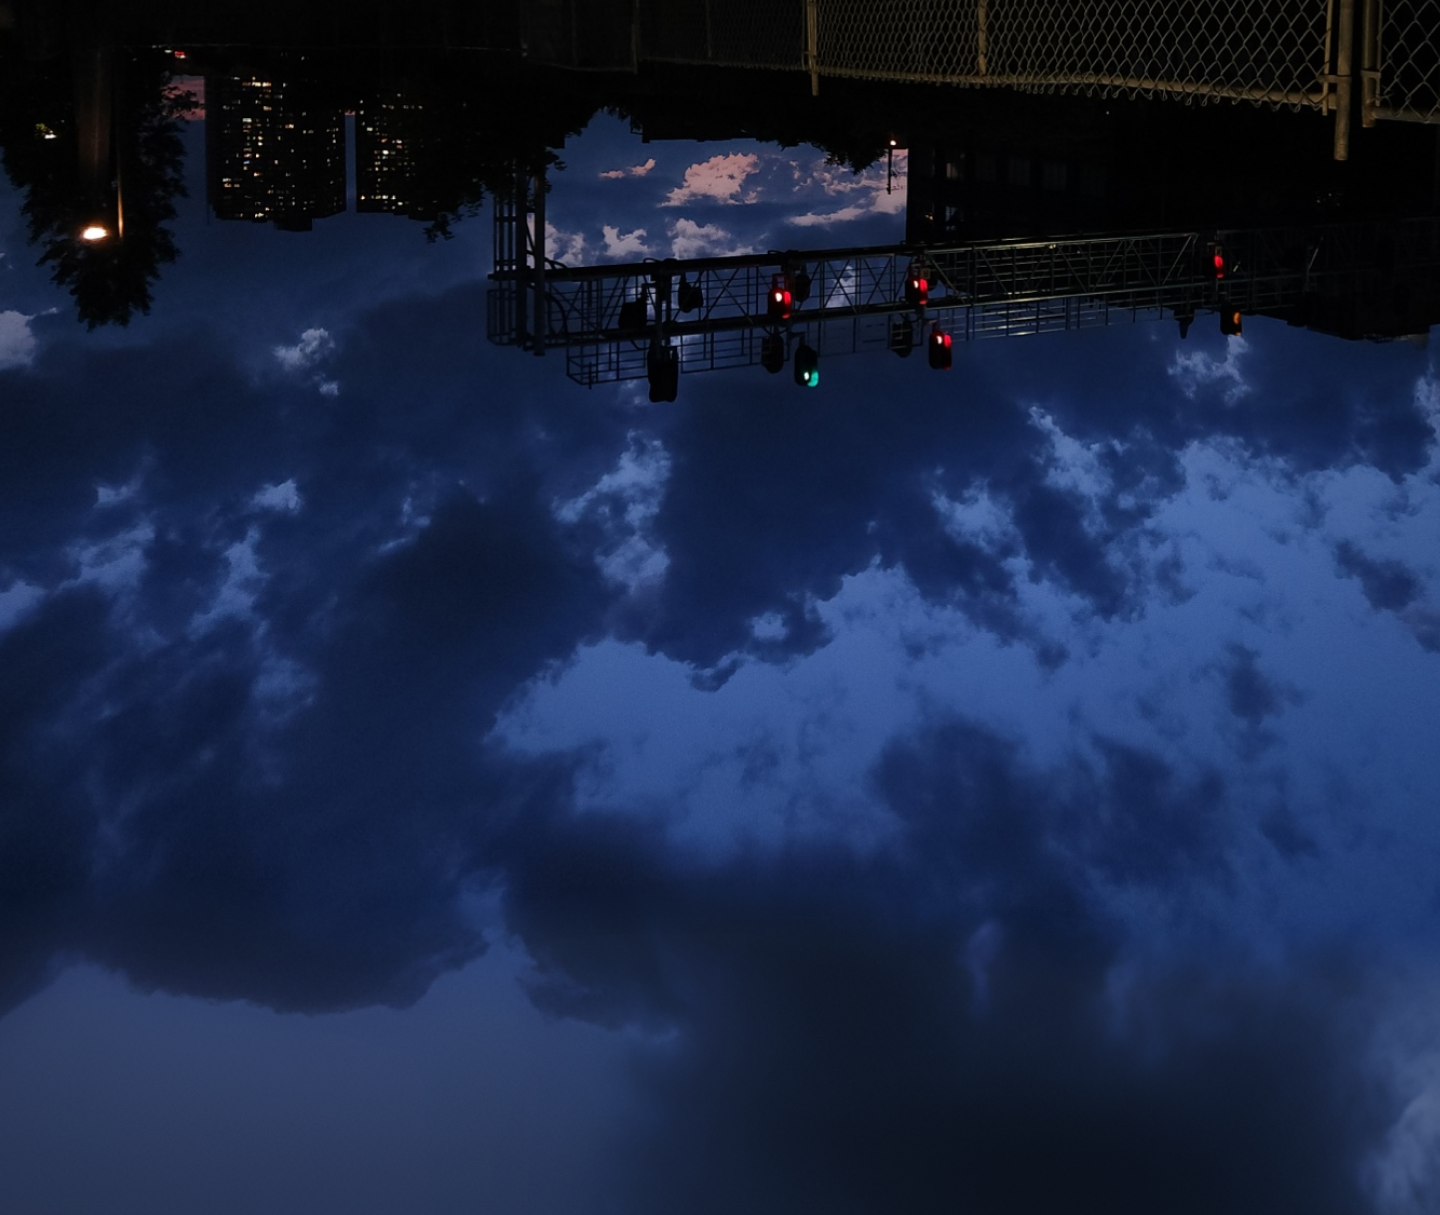
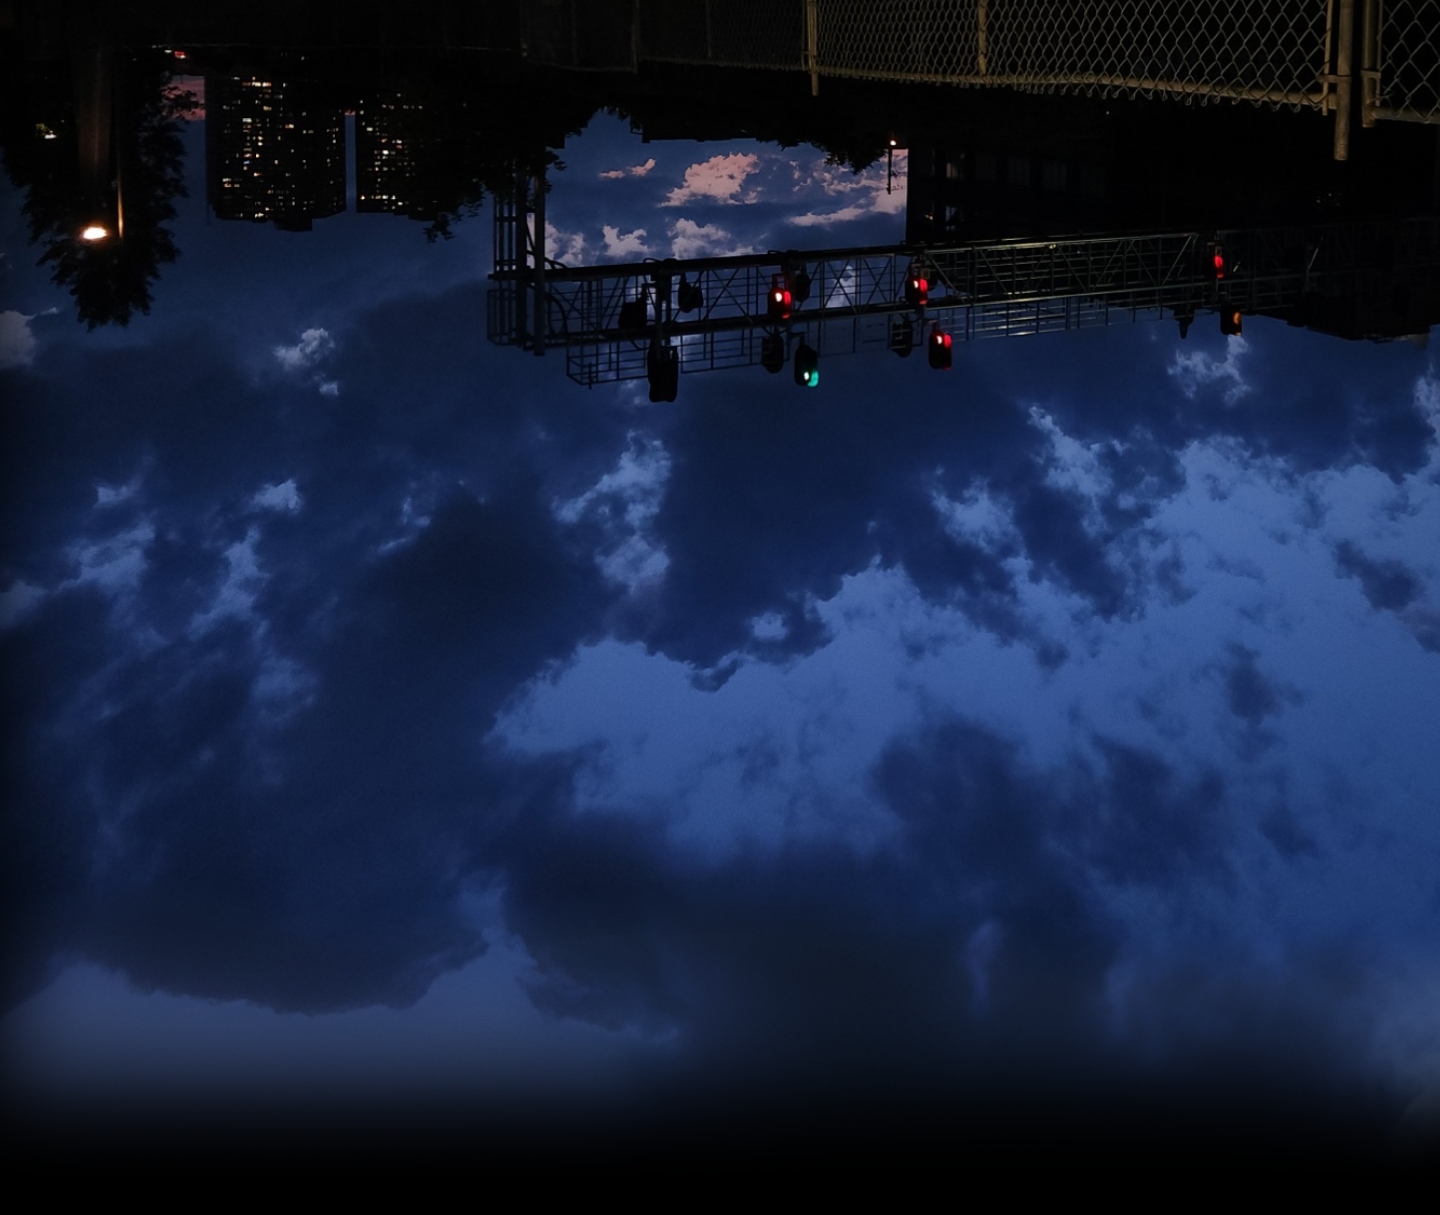
Adjust: both parralax img for better fit and look on various page size

Changed region(s): [[0.0, 0.7918, 1.0, 1.0], [0.0, 0.3959, 0.0312, 0.5481], [0.0, 0.1523, 0.0312, 0.3045]]

diff --git a/css/style.css b/css/style.css
@@ -226,8 +226,7 @@
     z-index: -2;
     right: 0;
     /* max-height: 3000px; */
-    /* max-width: 500px; */
-    
+    max-width: 1440px;
     /* margin: auto; */
     /* overflow-y: hidden; */
     /* position: absolute; */
@@ -244,7 +243,7 @@
     display: flex;
     justify-content: center;
     width: 100vw;
-    padding-top: 25rem;
+    padding-top: 80rem;
     position: absolute;
     max-height: 3000px;
     /* height: 5000px; */
@@ -253,13 +252,13 @@
   /*About Me Section*/
 
   .about-me__Wrap {
-    border: 2px solid orange;
+    /* border: 2px solid orange; */
 
     width: 100%;
   }
 
   .about-me {
-    border: 2px solid blue;
+    /* border: 2px solid blue; */
 
     display: flex;
     margin: 0 auto;
